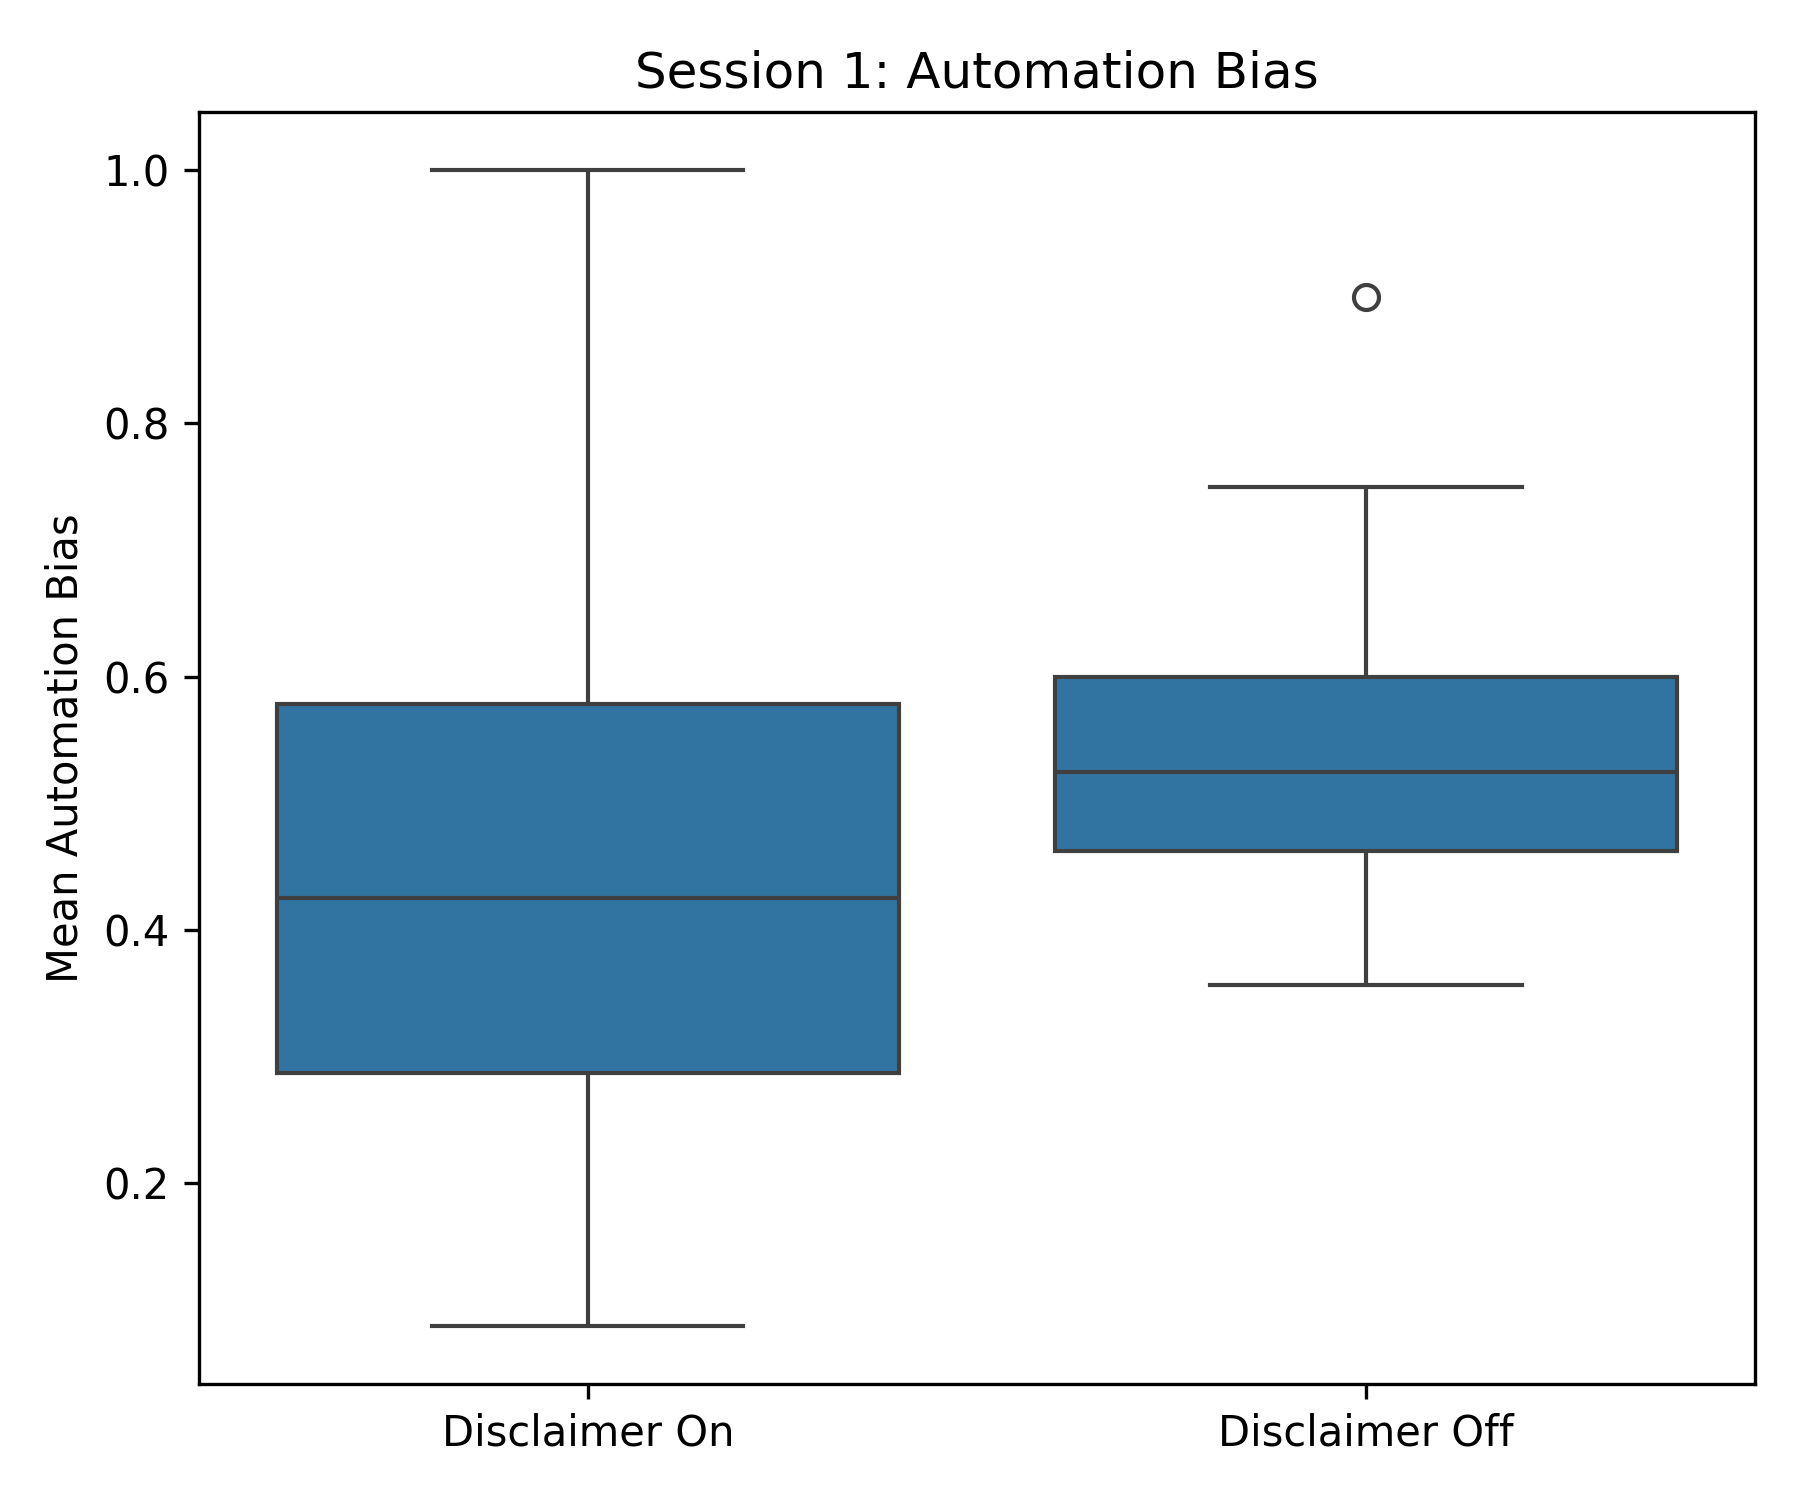
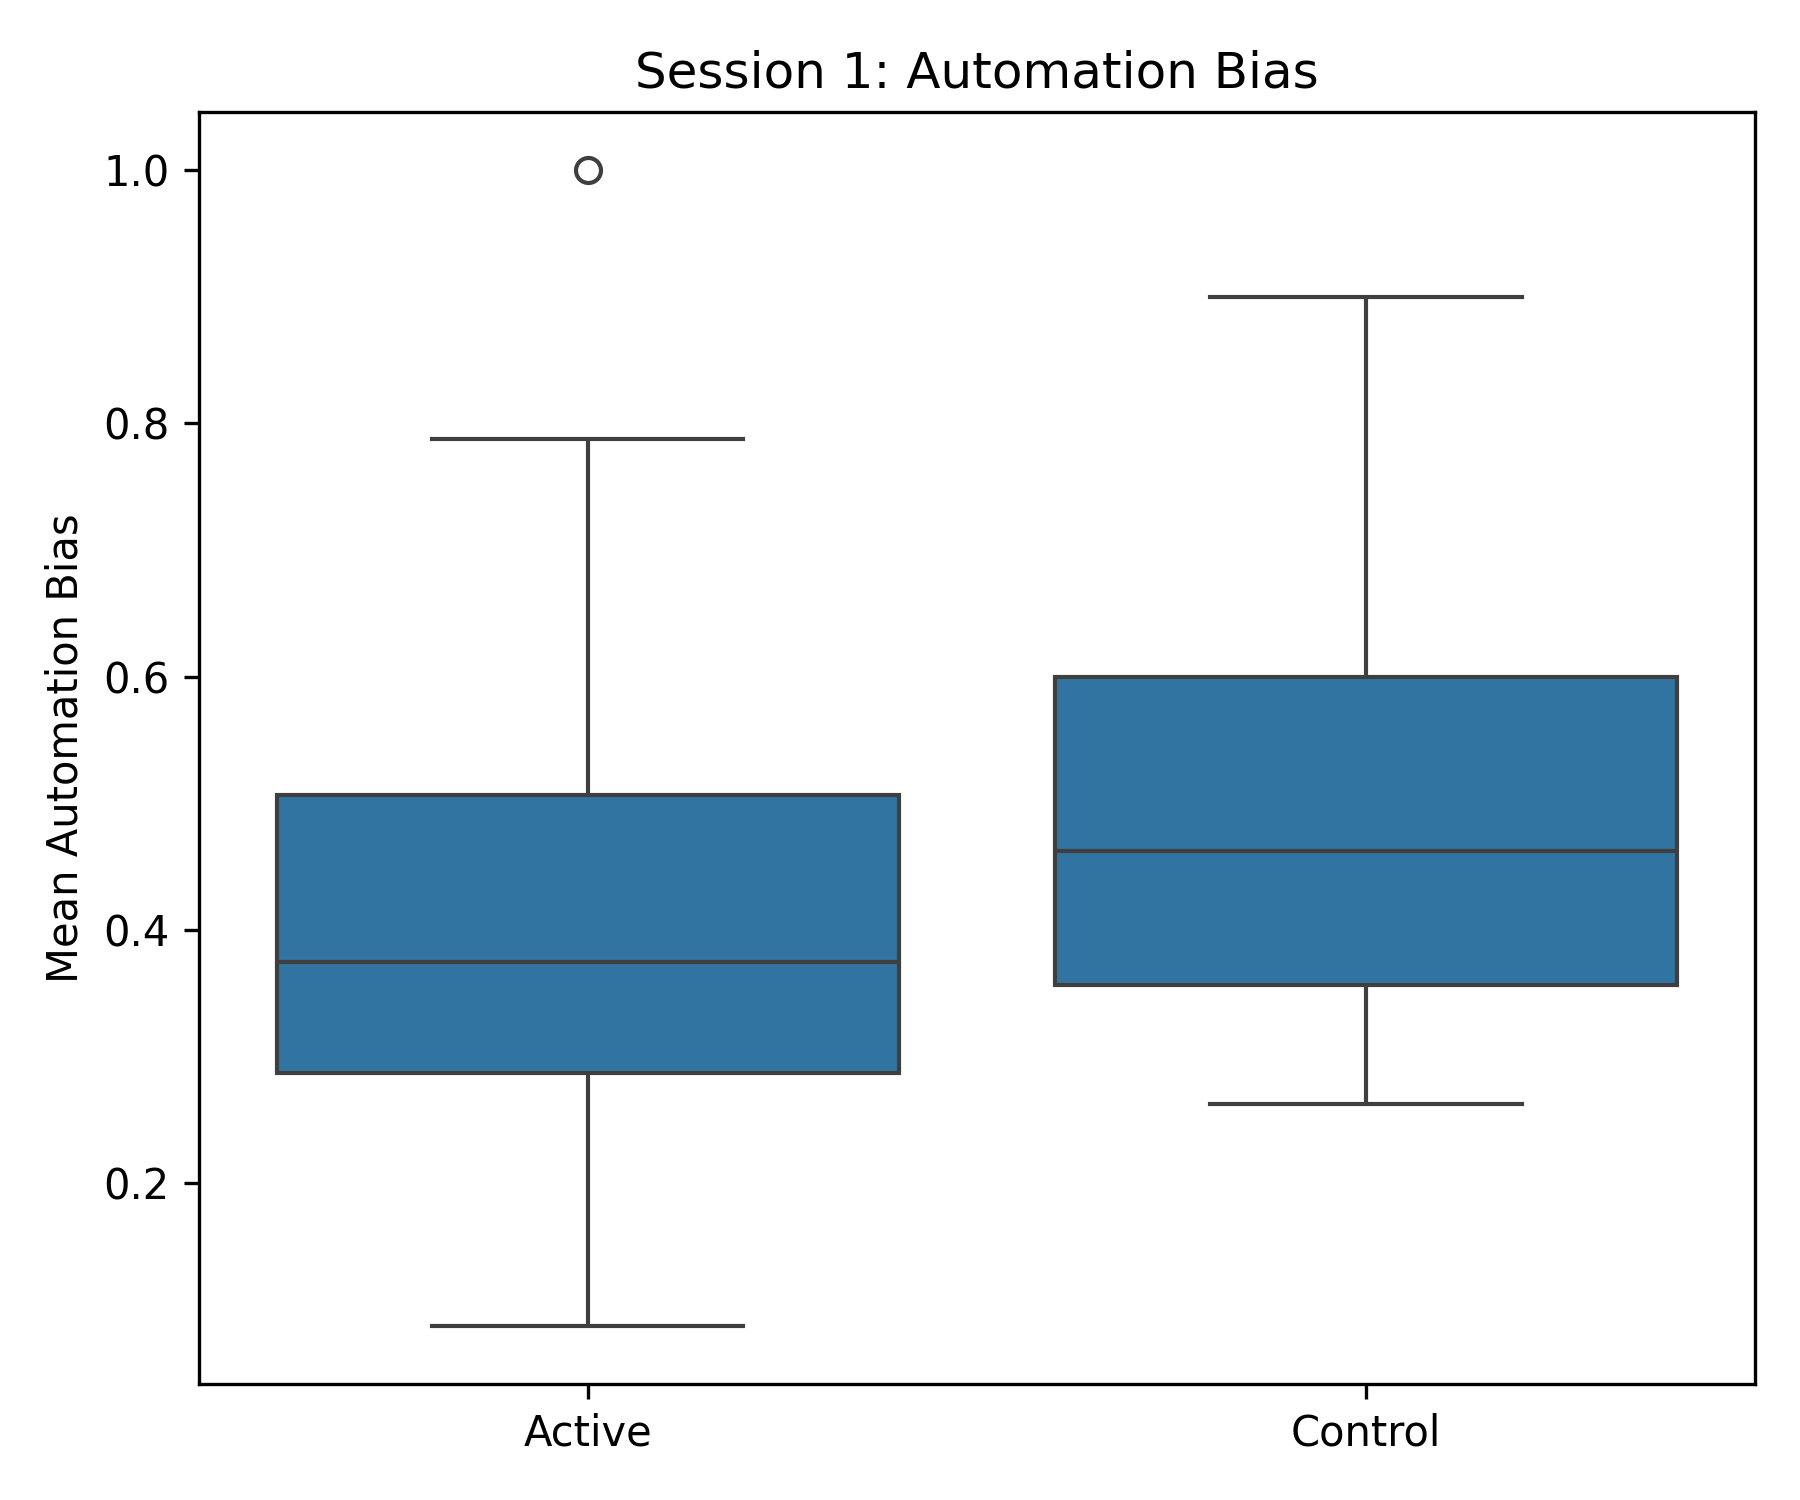
fix math and plot errors
categorization of session 2
and plot axis

diff --git a/Math/automationBias.py b/Math/automationBias.py
@@ -5,6 +5,7 @@ import pandas as pd
 import os
 import seaborn as sns
 from scipy.stats import ttest_ind
+from itertools import product
 
 
 MIN_BIAS = 0.25
@@ -102,6 +103,16 @@ def normalize_disclaimer(x):
         return 0
     return np.nan
 
+def normalize_bool(x):
+    x = str(x).strip().lower()
+
+    if x in ["ja", "yes", "true", "1"]:
+        return 1
+    if x in ["nein", "no", "false", "0"]:
+        return 0
+
+    return np.nan
+
 
 def main():
     session1_list = []
@@ -135,37 +146,30 @@ def main():
 
     # bias columns
     bias_cols = [f"bias rating ({i+1})" for i in range(3)]
+    correct_cols = [i for i in ANSWER_CORRECT]
 
-    # FIXED: mean only over non-zero bias values
-    if not session1.empty:
-        session1["bias_mean"] = session1.apply(
-            lambda row: np.mean([row[c] for c in bias_cols if row[c] > 0]),
-            axis=1
-        )
+    session1["bias_mean"] = session1.apply(
+        lambda row: np.mean([
+            row[bias_col]
+            for bias_col, corr_col in zip(bias_cols, correct_cols)
+            if normalize_bool(row[corr_col]) == 0
+        ]),
+        axis=1
+    )
 
-    if not session2.empty:
-        session2["bias_mean"] = session2.apply(
-            lambda row: np.mean([row[c] for c in bias_cols if row[c] > 0]),
-            axis=1
-        )
+    session2["bias_mean"] = session2.apply(
+        lambda row: np.mean([
+            row[bias_col]
+            for bias_col, corr_col in zip(bias_cols, correct_cols)
+            if normalize_bool(row[corr_col]) == 0
+        ]),
+        axis=1
+    )
 
     print("Done. Files saved.")
 
     session1["session"] = "Session 1"
     session2["session"] = "Session 2"
-
-    #TODO: 3 boxplots
-    # 1: session 1 disclaimer on vs disclaimer off
-    # 2: disclaimer on Session 1 vs session 2
-    # 2: disclaimer off Session 1 vs session 2
-
-    combined = pd.concat(
-        [
-            session1[["nickname","session", "DISCLAIMER", "bias_mean"]],
-            session2[["nickname","session", "DISCLAIMER", "bias_mean"]],
-        ],
-        ignore_index=True,
-    )
 
     # ---------------------------------------
     # Nickname consistency check
@@ -193,19 +197,21 @@ def main():
     )
 
 
-    # remove rows without bias
-    combined = combined.dropna(subset=["bias_mean"])
-
-    # prettier labels
-    combined["DISCLAIMER_LABEL"] = combined["DISCLAIMER"].map(
-        {
-            0: "Disclaimer Off",
-            1: "Disclaimer On"
-        }
+    combined = session1[["nickname", "DISCLAIMER", "bias_mean"]].merge(
+        session2[["nickname", "bias_mean"]],
+        on="nickname",
+        how="left",
+        suffixes=("_s1", "_s2")
     )
 
-    #TODO: t & p tests pro Vergleich
+    # remove rows without bias
+    combined = combined.dropna(subset=["bias_mean_s1"])
 
+    # prettier labels
+    combined["DISCLAIMER_LABEL"] = combined["DISCLAIMER"].map({
+        0: "Control",
+        1: "Active"
+    })
     # ---------------------------------------
     # Plot 1
     # Session 1: Disclaimer On vs Off
@@ -214,9 +220,9 @@ def main():
     plt.figure(figsize=(6, 5))
 
     sns.boxplot(
-        data=combined[combined["session"] == "Session 1"],
+        data=combined,
         x="DISCLAIMER_LABEL",
-        y="bias_mean",
+        y="bias_mean_s1",
     )
 
     plt.title("Session 1: Automation Bias")
@@ -231,7 +237,6 @@ def main():
     plt.close()
 
 
-    #TODO: fix because all session 1 actives also have false in Disclaimer Off in session 2
     # ---------------------------------------
     # Plot 2
     # Session 2: Disclaimer On vs Off
@@ -240,9 +245,9 @@ def main():
     plt.figure(figsize=(6, 5))
 
     sns.boxplot(
-        data=combined[combined["session"] == "Session 2"],
+        data=combined,
         x="DISCLAIMER_LABEL",
-        y="bias_mean",
+        y="bias_mean_s2",
     )
 
     plt.title("Session 2: Automation Bias")
@@ -256,18 +261,35 @@ def main():
     )
     plt.close()
 
-    #TODO: fix because all session 1 actives also have false in Disclaimer Off in session 2
+
     # ---------------------------------------
     # Plot 3
     # Disclaimer ON: Session 1 vs Session 2
     # ---------------------------------------
 
+    on_data = combined[combined["DISCLAIMER"] == 1]
+
+    plot_data = pd.melt(
+        on_data,
+        id_vars=["nickname"],
+        value_vars=["bias_mean_s1", "bias_mean_s2"],
+        var_name="session",
+        value_name="bias_mean_value",
+    )
+
+    plot_data["session"] = plot_data["session"].map(
+        {
+            "bias_mean_s1": "Session 1",
+            "bias_mean_s2": "Session 2",
+        }
+    )
+
     plt.figure(figsize=(6, 5))
 
     sns.boxplot(
-        data=combined[combined["DISCLAIMER"] == 1],
+        data=plot_data,
         x="session",
-        y="bias_mean",
+        y="bias_mean_value",
     )
 
     plt.title("Disclaimer ON")
@@ -281,17 +303,35 @@ def main():
     )
     plt.close()
 
+
     # ---------------------------------------
     # Plot 4
     # Disclaimer OFF: Session 1 vs Session 2
     # ---------------------------------------
 
+    off_data = combined[combined["DISCLAIMER"] == 0]
+
+    plot_data = pd.melt(
+        off_data,
+        id_vars=["nickname"],
+        value_vars=["bias_mean_s1", "bias_mean_s2"],
+        var_name="session",
+        value_name="bias_mean_value",
+    )
+
+    plot_data["session"] = plot_data["session"].map(
+        {
+            "bias_mean_s1": "Session 1",
+            "bias_mean_s2": "Session 2",
+        }
+    )
+
     plt.figure(figsize=(6, 5))
 
     sns.boxplot(
-        data=combined[combined["DISCLAIMER"] == 0],
+        data=plot_data,
         x="session",
-        y="bias_mean",
+        y="bias_mean_value",
     )
 
     plt.title("Disclaimer OFF")
